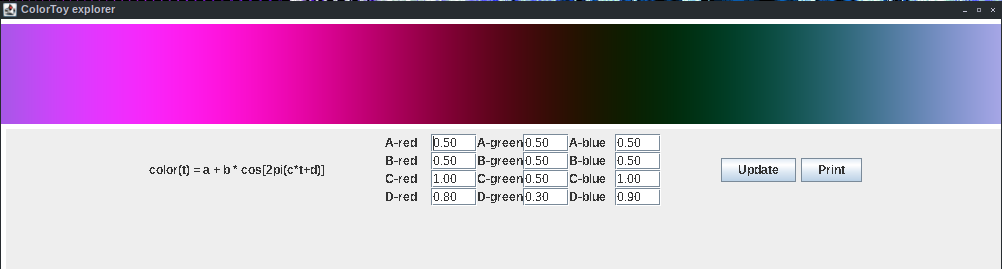
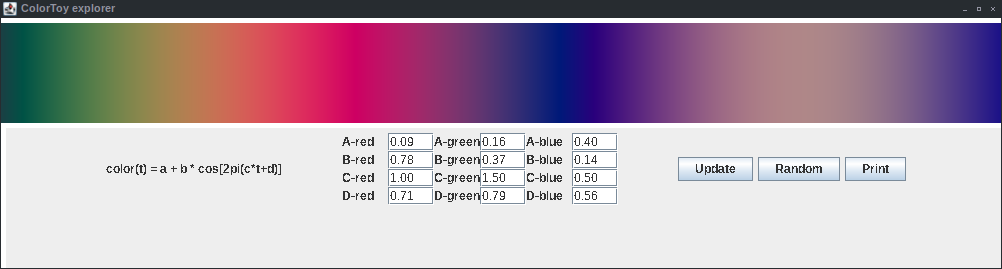
Added a 'Random' button that will update the text fields with new values.  Will not always produce a continuous color spectrum, but works well enough for exploring.

diff --git a/ControlPanel.java b/ControlPanel.java
@@ -6,6 +6,7 @@
 import java.awt.*;
 import javax.swing.*;
 import java.awt.event.*;
+import java.text.DecimalFormat;
 
 public class ControlPanel extends JPanel{
     
@@ -15,6 +16,7 @@ public class ControlPanel extends JPanel{
 	private JLabel dr_lbl, dg_lbl, db_lbl;
     private JButton update; //update all quantities
 	private JButton printer; //dump values to stdout
+	private JButton randbtn; //randomize starting values
     private JTextField ar_txt = new JTextField(4);
     private JTextField ag_txt = new JTextField(4);
     private JTextField ab_txt = new JTextField(4);
@@ -67,10 +69,12 @@ public class ControlPanel extends JPanel{
        
 	update = new JButton("Update");
 	printer = new JButton("Print");
+	randbtn = new JButton("Random");
 	this.colortoy = colortoypanel;
 
 	update.addActionListener(new ButtonListener(update));
 	printer.addActionListener(new PrintListener(printer));
+	randbtn.addActionListener(new RandomListener(randbtn));
 
 	add(func_lbl);
 	add(Box.createRigidArea(new Dimension(50, 0)));
@@ -102,9 +106,45 @@ public class ControlPanel extends JPanel{
 	add(params);
 	add(Box.createRigidArea(new Dimension(50, 0)));
 	add(update);
+	add(randbtn);
 	add(printer);
 
     }
+
+    private class RandomListener implements ActionListener{
+	
+	private JButton button;
+	
+	public RandomListener (JButton button) {
+	    this.button = button;
+	}
+
+	public void actionPerformed (ActionEvent event) {
+	    
+	    try {
+		DecimalFormat decimalFormat = new DecimalFormat("0.00");
+		ar_txt.setText(decimalFormat.format(Math.random()));
+		ab_txt.setText(decimalFormat.format(Math.random()));
+		ag_txt.setText(decimalFormat.format(Math.random()));
+
+		br_txt.setText(decimalFormat.format(Math.random()));
+		bb_txt.setText(decimalFormat.format(Math.random()));
+		bg_txt.setText(decimalFormat.format(Math.random()));
+
+		cr_txt.setText(decimalFormat.format(((int)(Math.random() * 5.)) * 0.5));
+		cb_txt.setText(decimalFormat.format(((int)(Math.random() * 5.)) * 0.5));
+		cg_txt.setText(decimalFormat.format(((int)(Math.random() * 5.)) * 0.5));
+
+		dr_txt.setText(decimalFormat.format(Math.random()));
+		db_txt.setText(decimalFormat.format(Math.random()));
+		dg_txt.setText(decimalFormat.format(Math.random()));
+
+	    }
+	    catch(Exception e) {
+			JOptionPane.showMessageDialog(null, "Unknown error creating values.", "Error", JOptionPane.ERROR_MESSAGE);
+	    }
+	}
+	}
 
     private class PrintListener implements ActionListener{
 	

diff --git a/ColorToyPanel.java b/ColorToyPanel.java
@@ -85,8 +85,7 @@ public class ColorToyPanel extends JPanel {
 		System.out.println(c_r + " " + c_g + " " + c_b);
 		System.out.println(d_r + " " + d_g + " " + d_b);
 	}
-
-    
+ 
     public void paintComponent(Graphics page){
 	
 	super.paintComponent(page);
